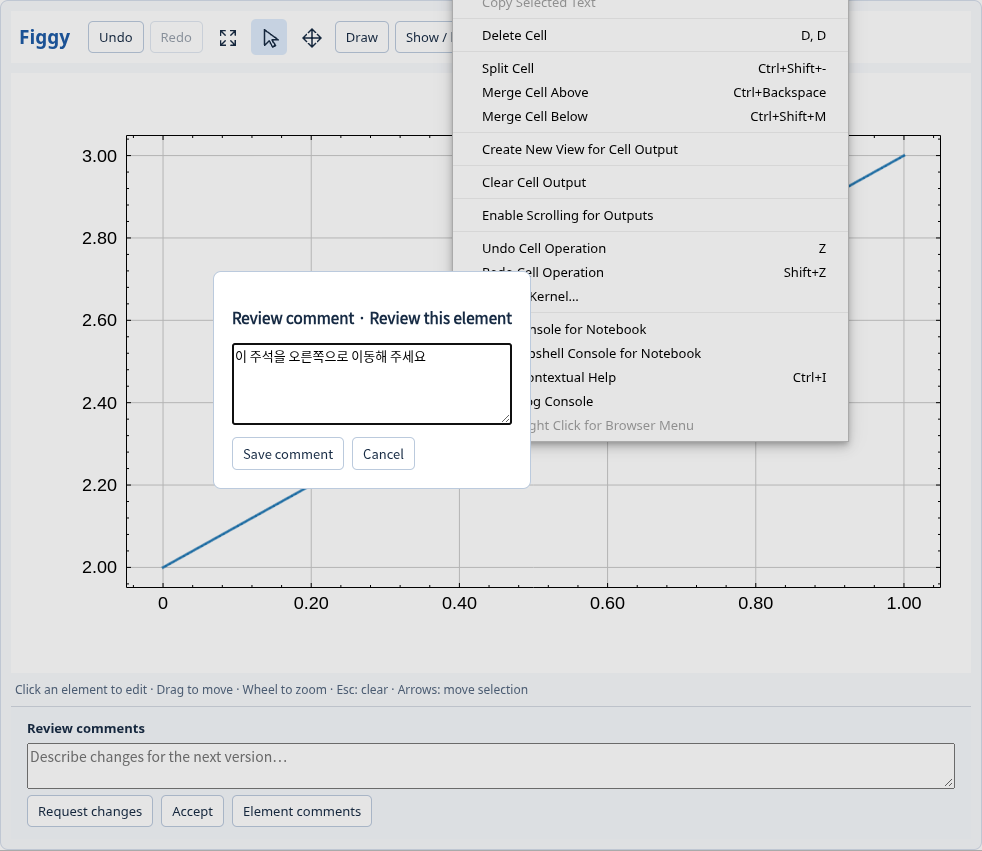
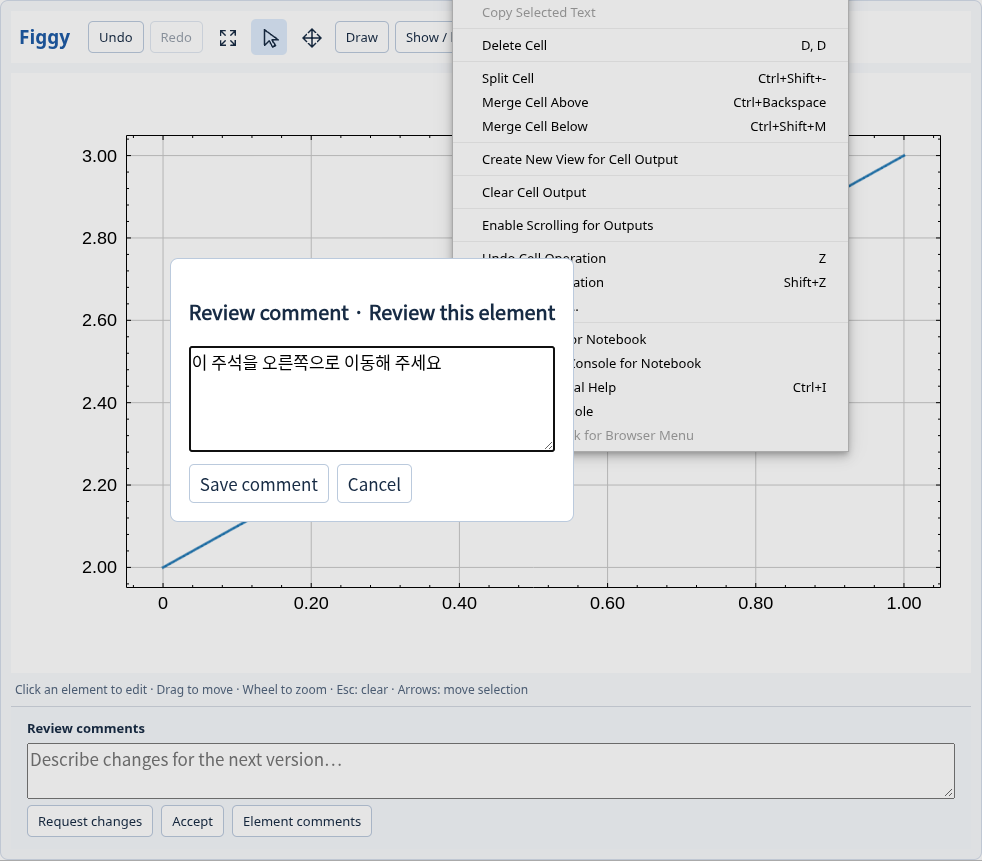
Apply review text size consistently and avoid the slow CI package mirror

diff --git a/python/figgyplot/webgpu.js b/python/figgyplot/webgpu.js
@@ -77,7 +77,7 @@ export function render({model,el}) {
     const state=model.get('review')??{};reviewPanel.hidden=!state.enabled;
     reviewPanel.querySelectorAll('button').forEach(button=>button.disabled=reviewBusy||model.get('status')!=='ready'||!!state.approved);
     if(state.enabled&&!reviewLoaded){reviewComment.value=state.comments??'';reviewTargets=clone(state.target_comments??[]);reviewLoaded=true;}
-    reviewComment.style.fontSize=`${state.font_size??14}px`;
+    reviewComment.style.fontSize=reviewDialog.style.fontSize=`${state.font_size??14}px`;
     if(state.font_family&&reviewFontLoaded!==state.font_family){
       reviewFontLoaded=state.font_family;
       const data=model.get('review_font_data');

diff --git a/tests/test_interaction_parity.py b/tests/test_interaction_parity.py
@@ -2960,7 +2960,7 @@ def test_element_review_comments_use_selected_font_and_preserve_ssot(tmp_path):
     from PIL import ImageGrab
     family='Noto Sans CJK KR' if font_family_available('Noto Sans CJK KR') else 'DejaVu Sans'
     text='이 주석을 오른쪽으로 이동해 주세요' if family=='Noto Sans CJK KR' else 'Move this annotation to the right'
-    with Session(tmp_path/'native-cache',backend='native',review_font=family) as session:
+    with Session(tmp_path/'native-cache',backend='native',review_font=family,review_font_size=17) as session:
         fig=session.figure(id='plot');fig.axes[0].plot([0,1],[2,3],id='one')
         fig.axes[0].set_title('Review title')
         fig.axes[0].text(.3,.3,'Review this element',coords='ratio',id='note')
@@ -3000,7 +3000,7 @@ def test_element_review_comments_use_selected_font_and_preserve_ssot(tmp_path):
         inputs.click('review_changes');session.poll()
         assert session.events()
         assert session.feedback(session.events()[0]['work_id'])['round']['documents']['plot']['comments'][0]['text']==text+'!'
-    source="import figgyplot as fg\nfrom figgyplot.review import Session\nsession=Session(backend='webgpu',review_font="+repr(family)+")\nfig=session.figure(id='plot');fig.axes[0].plot([0,1],[2,3],id='one')\nfig.axes[0].text(.3,.3,'Review this element',coords='ratio',id='note')\ndisplay(session.widget(fig))"
+    source="import figgyplot as fg\nfrom figgyplot.review import Session\nsession=Session(backend='webgpu',review_font="+repr(family)+",review_font_size=17)\nfig=session.figure(id='plot');fig.axes[0].plot([0,1],[2,3],id='one')\nfig.axes[0].text(.3,.3,'Review this element',coords='ratio',id='note')\ndisplay(session.widget(fig))"
     with notebook(tmp_path/'browser-comments',source) as (page,execute):
         check_display_frame_ready(page)
         page.wait_for_function("document.querySelector('.figgy-editor').style.getPropertyValue('--figgy-review-font') !== ''")
@@ -3009,6 +3009,7 @@ def test_element_review_comments_use_selected_font_and_preserve_ssot(tmp_path):
         page.mouse.click(*browser_surface_point(page,(bounds[0]+bounds[2]/2,bounds[1]+bounds[3]/2)),button='right')
         menu=page.locator('[data-review-target]');menu.wait_for(state='visible');target=menu.get_attribute('data-review-target');menu.click()
         page.locator('[data-review-target-text]').fill(text)
+        assert page.locator('[data-review-target-text]').evaluate('e=>getComputedStyle(e).fontSize')=='17px'
         screenshot_editor(page,tmp_path/'browser-element-comment.png')
         page.locator('[data-review-target-save]').click()
         assert json.loads(execute('import json;print(json.dumps(session._review_state("plot")["target_comments"]))'))[0]['target']==target

diff --git a/docs/HOST_VALIDATION.md b/docs/HOST_VALIDATION.md
@@ -36,6 +36,14 @@ Chromium 154/SwiftShader and installed Noto Sans CJK KR. Rust formatting, JS
 syntax, installed-package checks and property-catalog inventory checks passed.
 Physical GPU and Windows/macOS runtime behavior remain unverified by these runs.
 
+PR run 61 did not execute tests: its build job exhausted the existing 20-minute
+budget after the Azure Ubuntu mirror downloaded 105 MB in 14 minutes 37 seconds
+(120 kB/s). Font unpacking/setup took seconds. The
+[timestamped log evidence](measurements/ci61-ubuntu-mirror-20261022.json) records
+the download separately from font configuration and build cancellation. Both CI
+install steps now use the official Ubuntu archive for the same signed packages;
+test assertions, execution auditing and job budgets are unchanged.
+
 Automatic pull-request checks are enabled in
 [PR tests](../.github/workflows/pr-tests.yml), including Linux native/Jupyter
 integration. The [interaction parity guard](../scripts/check_interaction_parity.py)
